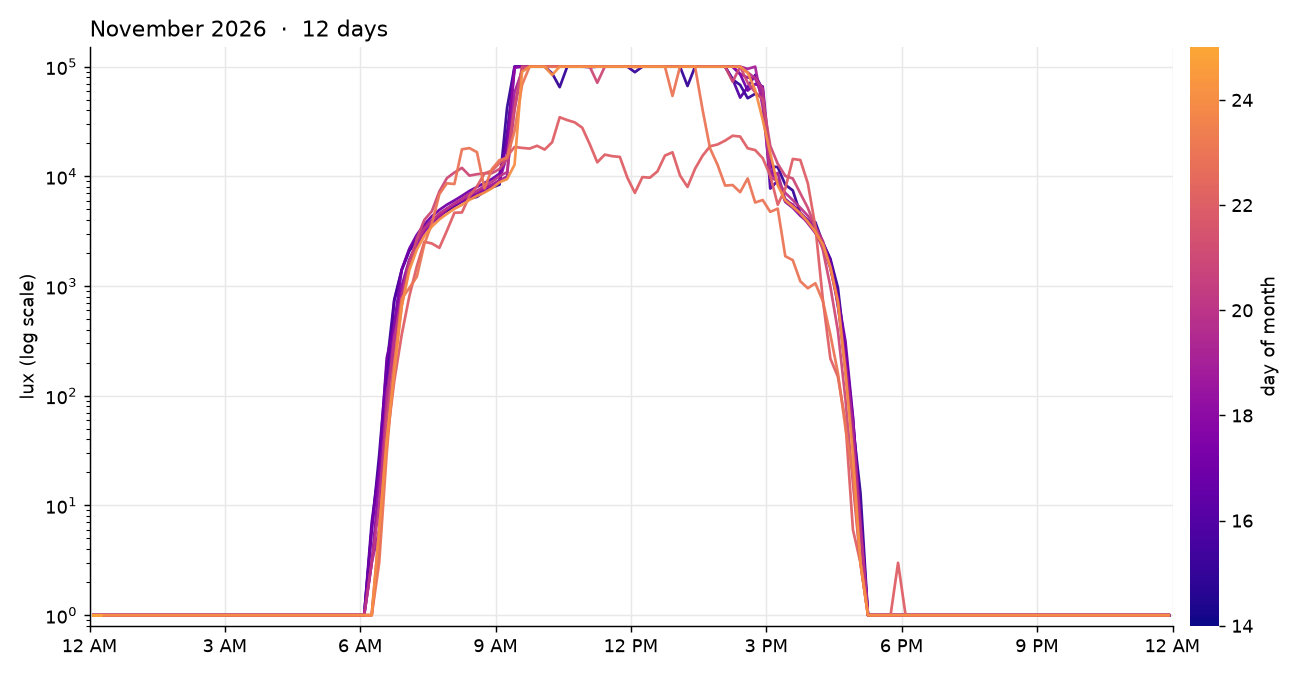
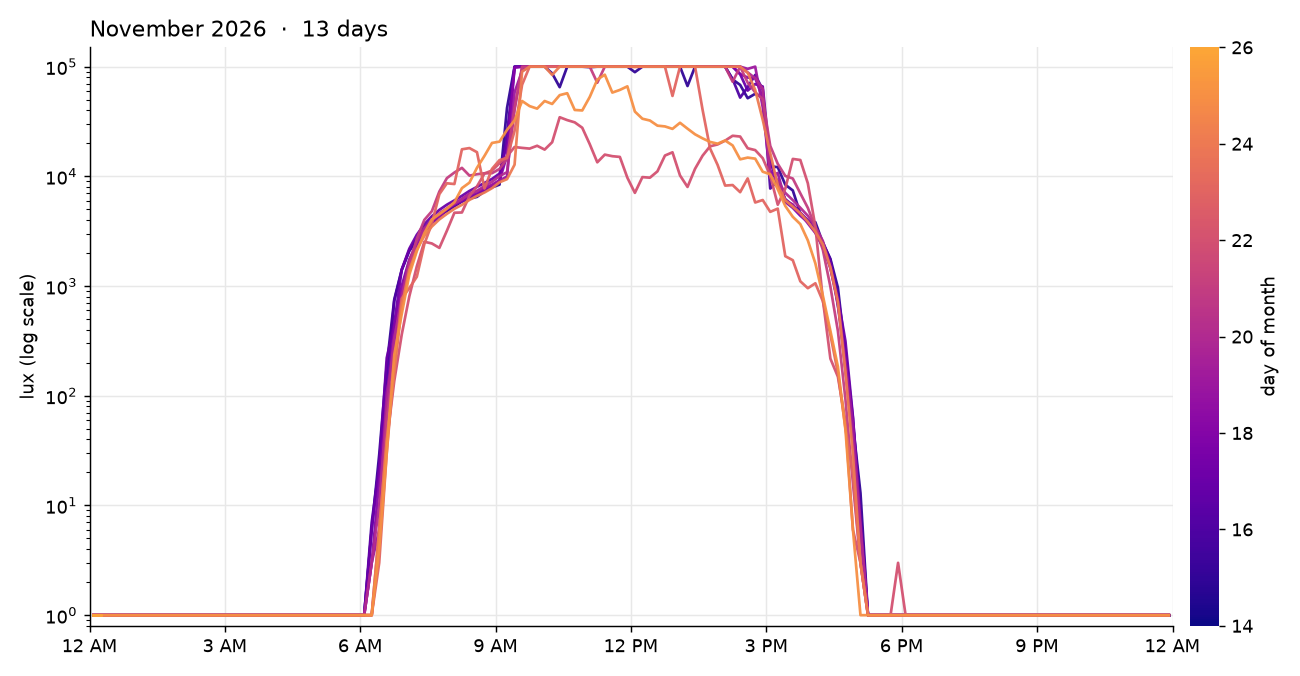
Daily update 2026-11-26

diff --git a/index.html b/index.html
@@ -13,10 +13,10 @@ img{width:100%;height:auto;display:block;border-radius:6px;background:#fff}
 footer{color:var(--muted);font-size:13px}
 </style></head><body><main>
 <h1>Home</h1>
-<p class="sub">Updated daily; last update Nov 25, 2026 12:20 AM.</p>
-<section><h2>Piano humidity</h2><img src="piano-humidity.png?v=202611250020" alt="Humidity at the piano since the sensor was installed, with the 40 to 45 percent target band"></section>
+<p class="sub">Updated daily; last update Nov 26, 2026 12:20 AM.</p>
+<section><h2>Piano humidity</h2><img src="piano-humidity.png?v=202611260020" alt="Humidity at the piano since the sensor was installed, with the 40 to 45 percent target band"></section>
 <h1>Outdoor light</h1>
 <p class="sub">Light level outside, one line per day, each month on its own chart.</p>
-<section><h2>November 2026</h2><img src="2026-11.png?v=20261125" alt="Outdoor light in November 2026, one line per day"></section>
+<section><h2>November 2026</h2><img src="2026-11.png?v=20261126" alt="Outdoor light in November 2026, one line per day"></section>
 <footer>Humidity: a sensor at the piano, shown as the 30-minute median. Light: measured by an outdoor light sensor, every few minutes, shown as the 10-minute median. The scale is logarithmic: each gridline is ten times brighter than the one below.</footer>
 </main></body></html>
